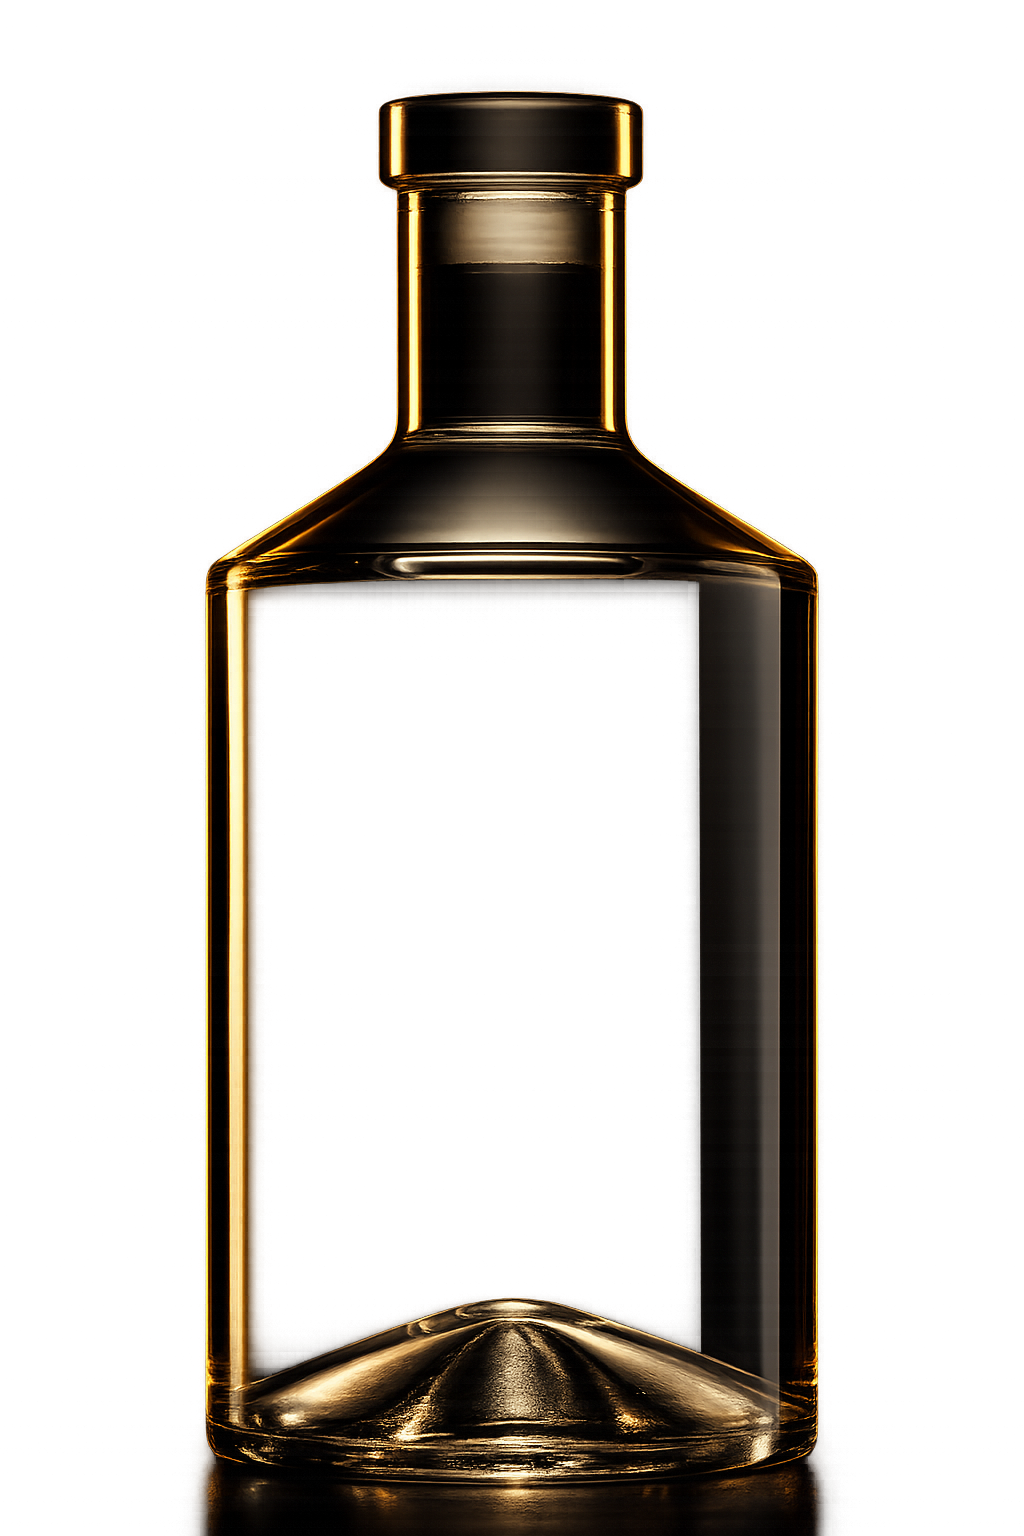
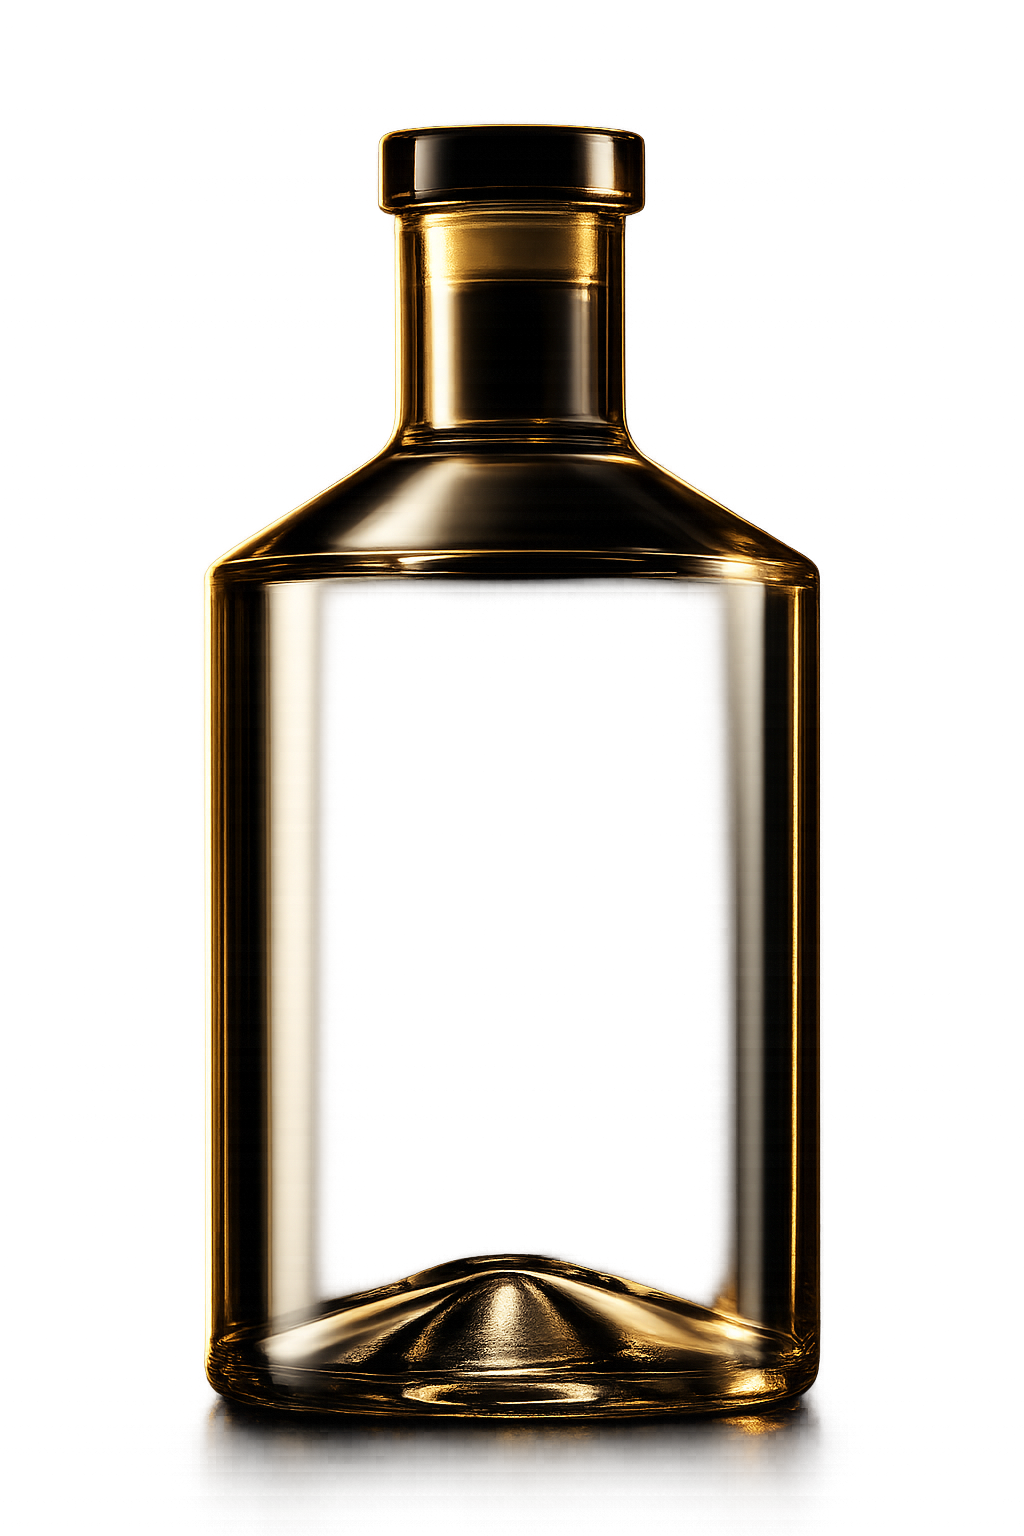
Move bg-2/no-separator change from order page to products page

Changed region(s): [[0.1875, 0.0312, 0.8125, 1.0]]

diff --git a/public/styles/order.css b/public/styles/order.css
@@ -4,7 +4,7 @@
    ============================================================ */
 
 /* hero */
-.ord-hero { text-align: center; padding: 6rem 0 3.5rem; background: var(--bg-2); }
+.ord-hero { text-align: center; padding: 6rem 0 3.5rem; }
 .ord-hero .v5-rule.center { margin-bottom: 1.25rem; }
 .ord-hero h1 {
   font-family: var(--font-head); font-weight: 500; font-size: clamp(2.2rem, 5vw, 3.4rem);
@@ -13,7 +13,7 @@
 .ord-lead { color: var(--muted); max-width: 34rem; margin: 0 auto; }
 
 /* layout */
-.ord-main { padding: 0 0 6rem; background: var(--bg-2); }
+.ord-main { padding: 0 0 6rem; }
 .ord-grid { display: grid; grid-template-columns: 1fr 22rem; gap: 2.5rem; align-items: start; }
 
 /* bottle chooser */
